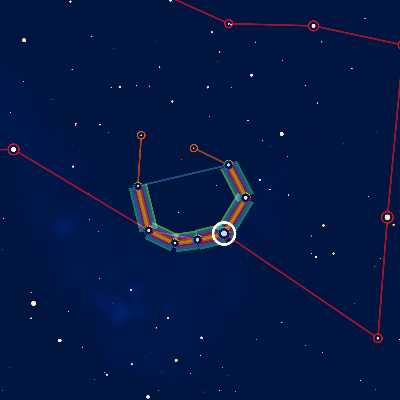
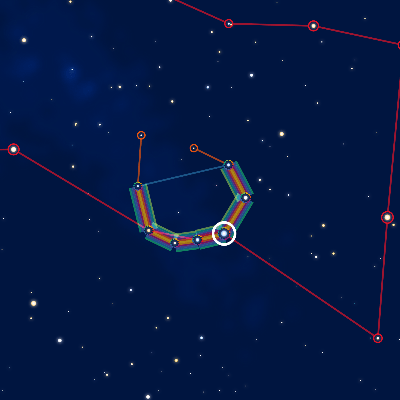
Changed some of the images

diff --git a/may/code/nadieh/js/main.js b/may/code/nadieh/js/main.js
@@ -86,7 +86,8 @@ function setupStarMaps(stars, star_by_id, const_links, const_names, const_per_st
         center: [0, 0], //ra in hours dec in degrees
         scale: 250,
     }  
-    
+    rectangularMoveEffect("header","image") 
+
     ////////////////////////// Orion mini circles //////////////////////////
     let focus_betelgeuse = {
         hip: 27989,
@@ -123,7 +124,7 @@ function setupStarMaps(stars, star_by_id, const_links, const_names, const_per_st
         .on("click", () => { smallMapClick(focus_big_dipper, opts_data) })
 
     ////////////////////////// Small multiple charts //////////////////////////
-    createSmallMultipleLayout(opts_data)
+    createSmallMultipleLayout(opts_data, "image")
 
     ///////////////////////////////////////////////////////////////////////////
     //////////////////////// Create Statistical chart /////////////////////////
@@ -141,42 +142,44 @@ function setupStarMaps(stars, star_by_id, const_links, const_names, const_per_st
         scale: 250,
     }
 
+    d3.selectAll(".chosen-culture-title")
+        .style("color", cultures[chosen_culture].color)
+        .html(toTitleCase(chosen_culture.replace(/_/g, ' ')))
+    //Set the colors on the culture divs
+    setCultureDivColors(chosen_culture)
+
     ///////////////////////////////////////////////////////////////////////////
     ////////////////////////// Run all the functions //////////////////////////
     ///////////////////////////////////////////////////////////////////////////
 
     function breathableConcat() {
         return breathe.chain()   // creates a breathable chain
-            .then(() => {
-                //Create the Sky Map behind the header - no longer needed, image is loaded
-                // createStraightSkyMapLayoutFullCanvas(opts_data, focus_header, window.innerWidth, 1.5, 500, "header")
-                rectangularMoveEffect("header","image") 
-            })
+            // .then(() => {
+            //     //Create the Sky Map behind the header - no longer needed, image is loaded
+            //     //The full canvas version - no longer needed, image is loaded
+            //     createStraightSkyMapLayoutFullCanvas(opts_data, focus_header, window.innerWidth, 1.5, 500, "header")
+            // })
             .then(() => {
                 //Create Orion's big circular layout
                 createCentralCircleLayout(opts_data, focus_betelgeuse, orion_m, orion_size, orion_size, "orion")
             })
             // .then(() => {
-            //     //Create Sirius's medium sky map
+            //     //Create Sirius's medium sky map - no longer needed, final result is image
             //     createMap(opts_data, 0, 500, 500, "#chart-sirius", focus_sirius, "medium")
             // })
             // .then(() => {
-            //     //Create the Big Dipper's medium sky map
+            //     //Create the Big Dipper's medium sky map - no longer needed, final result is image
             //     createMap(opts_data, 0, 500, 500, "#chart-big-dipper", focus_big_dipper, "medium")
             // })
             // .then(() => {
             //     //Doesn't actually create canvases, only loads final png images now
-            //     createSmallMultipleLayout(opts_data)
+            //     createSmallMultipleLayout(opts_data, "canvas")
             // })
             .then(() => {
-                //Update the title
-                d3.selectAll(".chosen-culture-title")
-                    .style("color", cultures[chosen_culture].color)
-                    .html(toTitleCase(chosen_culture.replace(/_/g, ' ')))
-                //Set the colors on the culture divs
-                setCultureDivColors(chosen_culture)
-                //Create the general full Sky Map visual
+                //Create the general full Sky Map visual - now creates only the lines and uses that as a background image
                 createStraightSkyMapLayout(opts_data, focus_culture, 650, "constellations")
+                // //The full canvas version
+                // createStraightSkyMapLayoutFullCanvas(opts_data, focus_culture, window.innerWidth, 1.5, 650, "constellations")
             })
     }//function breathableConcat
 
@@ -385,7 +388,7 @@ function constellationCultureCap(s) {
 
 ////////////////// Retina non-blurry canvas //////////////////
 function crispyCanvas(canvas, ctx, total_width, total_height, offscreen, offset_x) {
-    sf = Math.min(2, getPixelRatio(ctx)) //no more than 2
+    sf = 2 //Math.min(2, getPixelRatio(ctx)) //no more than 2
     if(screen.width < 500) sf = 1 //for small devices, 1 is enough
 
     if(!offscreen) {

diff --git a/may/code/nadieh/js/drawStars.js b/may/code/nadieh/js/drawStars.js
@@ -32,7 +32,7 @@ function drawStars(opts_general, opts) {
     // ctx.textBaseline = "bottom"
     // ctx.textAlign = "center"
 
-    if(type !== "multiple") ctx.shadowBlur = 25
+    ctx.shadowBlur = 25
     ctx.globalAlpha = 1
     ctx.globalCompositeOperation = "source-over"
 
@@ -48,36 +48,24 @@ function drawStars(opts_general, opts) {
         let r = opts.radius_scale(d.mag) //Math.pow(1.2, 5 - d.mag)
         let col = d.t_eff ? star_color_scale(d.t_eff) : "white"
 
-        if(type !== "multiple") {
-            //Create a gradient to fill each star with: lighter in center and darker around edges
-            let grd = ctx.createRadialGradient(pos[0],pos[1],1,pos[0],pos[1],r*1.1)
-            let col_bright = chroma(col).brighten(1)
-            let col_dark = chroma(col).saturate(3).darken(1)
-            grd.addColorStop(0,col_bright)
-            grd.addColorStop(0.6,col)
-            grd.addColorStop(1,col_dark)
-            ctx.fillStyle = grd
-            
-            //Create a glow around each star
-            // ctx.shadowBlur = 25 //r * 2.5
-            ctx.shadowColor = col
-        } else {
-            ctx.fillStyle = col
-        }//else
+        //Create a gradient to fill each star with: lighter in center and darker around edges
+        let grd = ctx.createRadialGradient(pos[0],pos[1],1,pos[0],pos[1],r*1.1)
+        let col_bright = chroma(col).brighten(1)
+        let col_dark = chroma(col).saturate(3).darken(1)
+        grd.addColorStop(0,col_bright)
+        grd.addColorStop(0.6,col)
+        grd.addColorStop(1,col_dark)
+        ctx.fillStyle = grd
+        
+        //Create a glow around each star
+        ctx.shadowColor = col
+        // ctx.fillStyle = col
 
         //Draw the star
         ctx.beginPath()
         ctx.arc(pos[0], pos[1], r, 0, pi2)
         ctx.fill()
         ctx.closePath()
-
-        // //If there is a star name, add it
-        // if(d.proper !== "") {
-        //     ctx.fillStyle = "white"
-        //     ctx.globalAlpha = 0.5
-        //     ctx.shadowBlur = 0
-        //     ctx.fillText(d.proper, pos[0], pos[1] - 2 - r)
-        // }//if
     })
 
     return canvas

diff --git a/may/code/nadieh/js/createMiniMapLayout.js b/may/code/nadieh/js/createMiniMapLayout.js
@@ -1,4 +1,4 @@
-function createSmallMultipleLayout(opts_data) {
+function createSmallMultipleLayout(opts_data, draw_type) {
     let focus = []
 
     ////////////////////////////// List of stars ///////////////////////////////
@@ -205,16 +205,18 @@ function createSmallMultipleLayout(opts_data) {
             .attr("class", "small-multiple-chart-sub-title red")
             .html(d.note)
 
-        //Add image of small multiple
-        chart_group.append("div")
-            .attr("id", "div-small-multiple-" + p_name)
-            .attr("class", "div-small-multiple")
-            .style("width", size + "px")
-            .style("height", size + "px")
-            .style("background-image", `url("img/small-multiple/small-multiple-${p_name}-2x-min.png")`)
-
-        // //Draw the canvas instead
-        //createMap(opts_data, m, size, size, "#" + chart_id, d, "multiple")
+        if(draw_type === "image") {
+            //Add image of small multiple
+            chart_group.append("div")
+                .attr("id", "div-small-multiple-" + p_name)
+                .attr("class", "div-small-multiple")
+                .style("width", size + "px")
+                .style("height", size + "px")
+                .style("background-image", `url("img/small-multiple/small-multiple-${p_name}-2x-min.png")`)
+        } else {
+            //Draw the canvas instead
+            createMap(opts_data, m, size, size, "#" + chart_id, d, "multiple")
+        }//else
     })//forEach
 
 }//function createSmallMultipleLayout
@@ -238,7 +240,7 @@ function createMap(opts_data, m, w, h, container_id, focus, type) {
     ////////////////////////////// Create sky map ///////////////////////////////
 
     //Get all of the constellations that include the chosen star
-    let constellations = const_per_star
+    let constellations = opts_data.const_per_star
         .filter(d => d.star_id === focus.hip)
         .map(d => d.const_id)
         .sort()

diff --git a/may/code/nadieh/js/createStraightSkyMapLayoutFullCanvas.js b/may/code/nadieh/js/createStraightSkyMapLayoutFullCanvas.js
@@ -1,6 +1,6 @@
 let w_factor
 
-function createStraightSkyMapLayout(opts, focus_map, w, w_increase, h, map_id, type) {
+function createStraightSkyMapLayoutFullCanvas(opts, focus_map, w, w_increase, h, map_id, type) {
 
     let chosen_culture = focus_map.culture
     let margin = { top: 0, right: 0, bottom: 0, left: 0}
@@ -18,7 +18,7 @@ function createStraightSkyMapLayout(opts, focus_map, w, w_increase, h, map_id, t
 
     let proj_min = projection([-180,0])[0]
     let proj_max = projection([180,0])[0]
-    let proj_width = proj_max - proj_min
+    let proj_width = Math.round(proj_max - proj_min)
 
     //Radius of the stars
     const radius_scale = d3.scalePow()

diff --git a/may/code/nadieh/index.html b/may/code/nadieh/index.html
@@ -53,6 +53,7 @@
 	<script src="js/setupStereographicProjection.js"></script>
 	<script src="js/setupCircularSkyMap.js"></script>
 	<script src="js/createStraightSkyMapLayout.js"></script>
+	<!-- <script src="js/createStraightSkyMapLayoutFullCanvas.js"></script> -->
 	<script src="js/createCentralCircleLayout.js"></script>
 	<script src="js/createMiniMapLayout.js"></script>
 

diff --git a/may/code/nadieh/js/createStraightSkyMapLayout.js b/may/code/nadieh/js/createStraightSkyMapLayout.js
@@ -21,7 +21,7 @@ function createStraightSkyMapLayout(opts, focus_map, h, map_id) {
 
     let proj_min = projection([-180,0])[0]
     let proj_max = projection([180,0])[0]
-    let proj_width = proj_max - proj_min
+    let proj_width = Math.round(proj_max - proj_min)
     let width = proj_width
 
     //Radius of the stars
